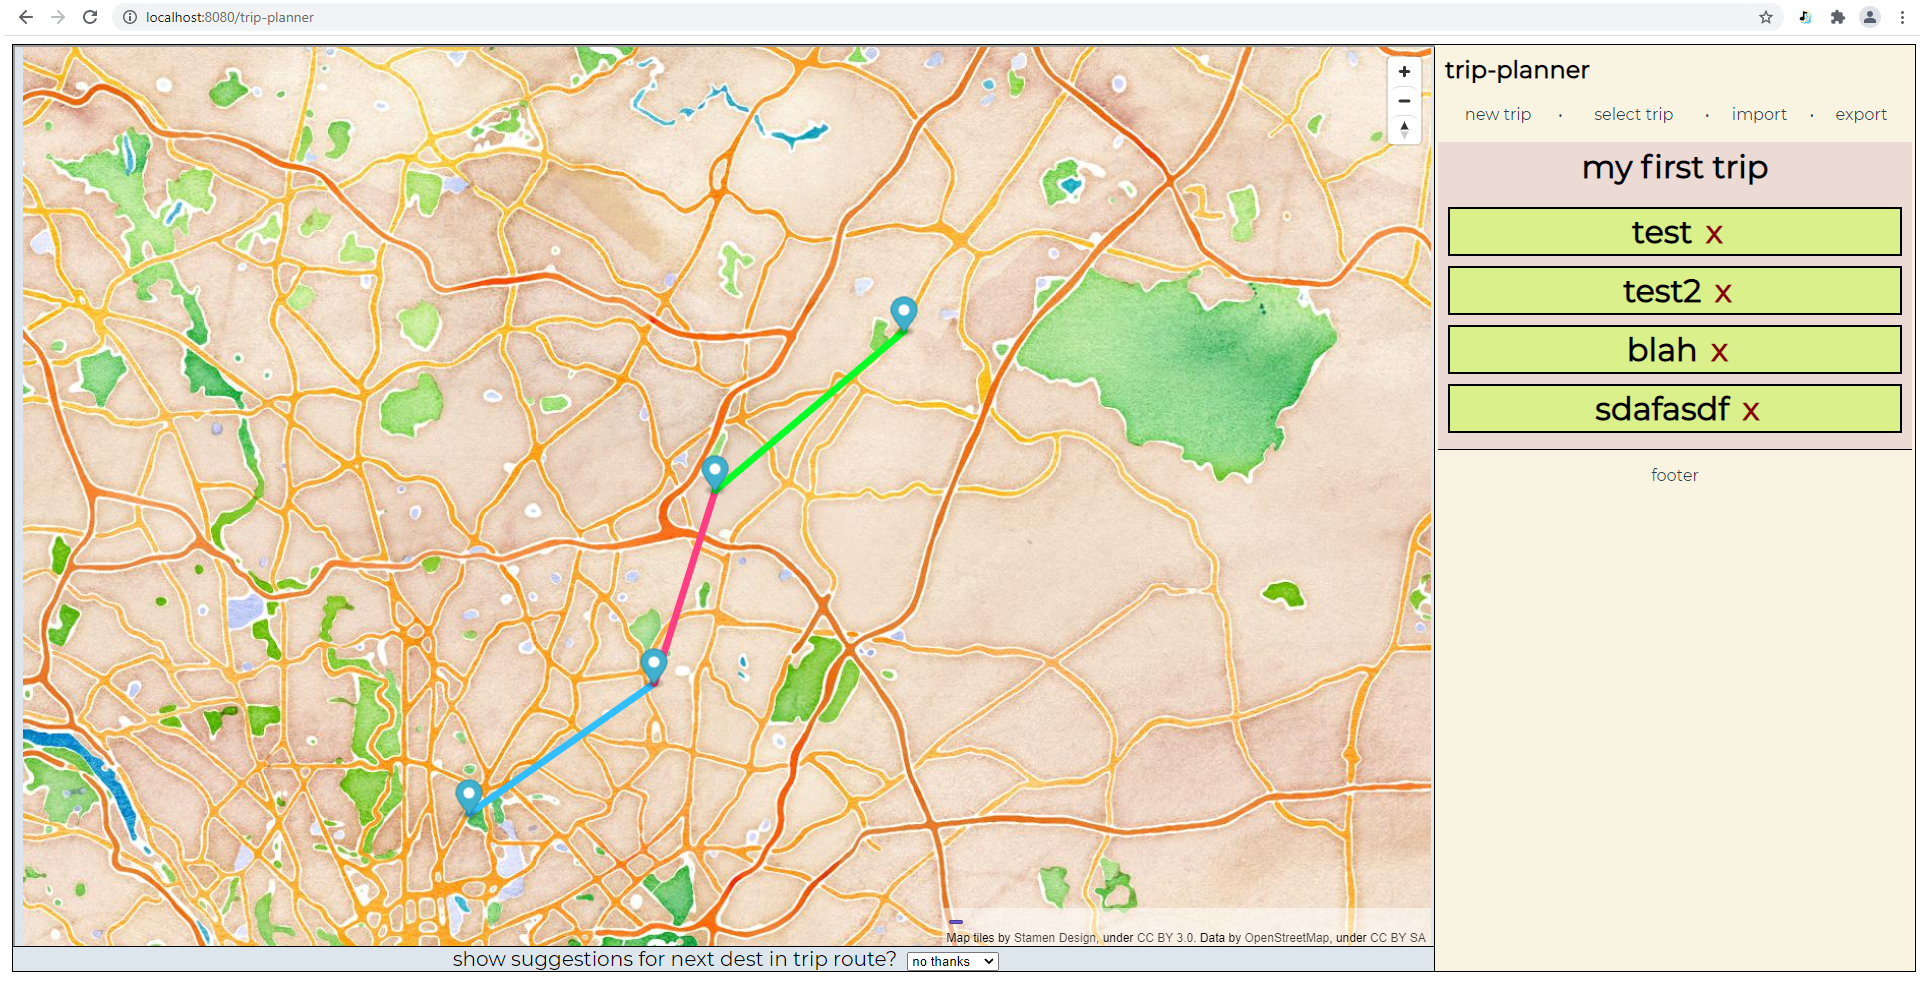
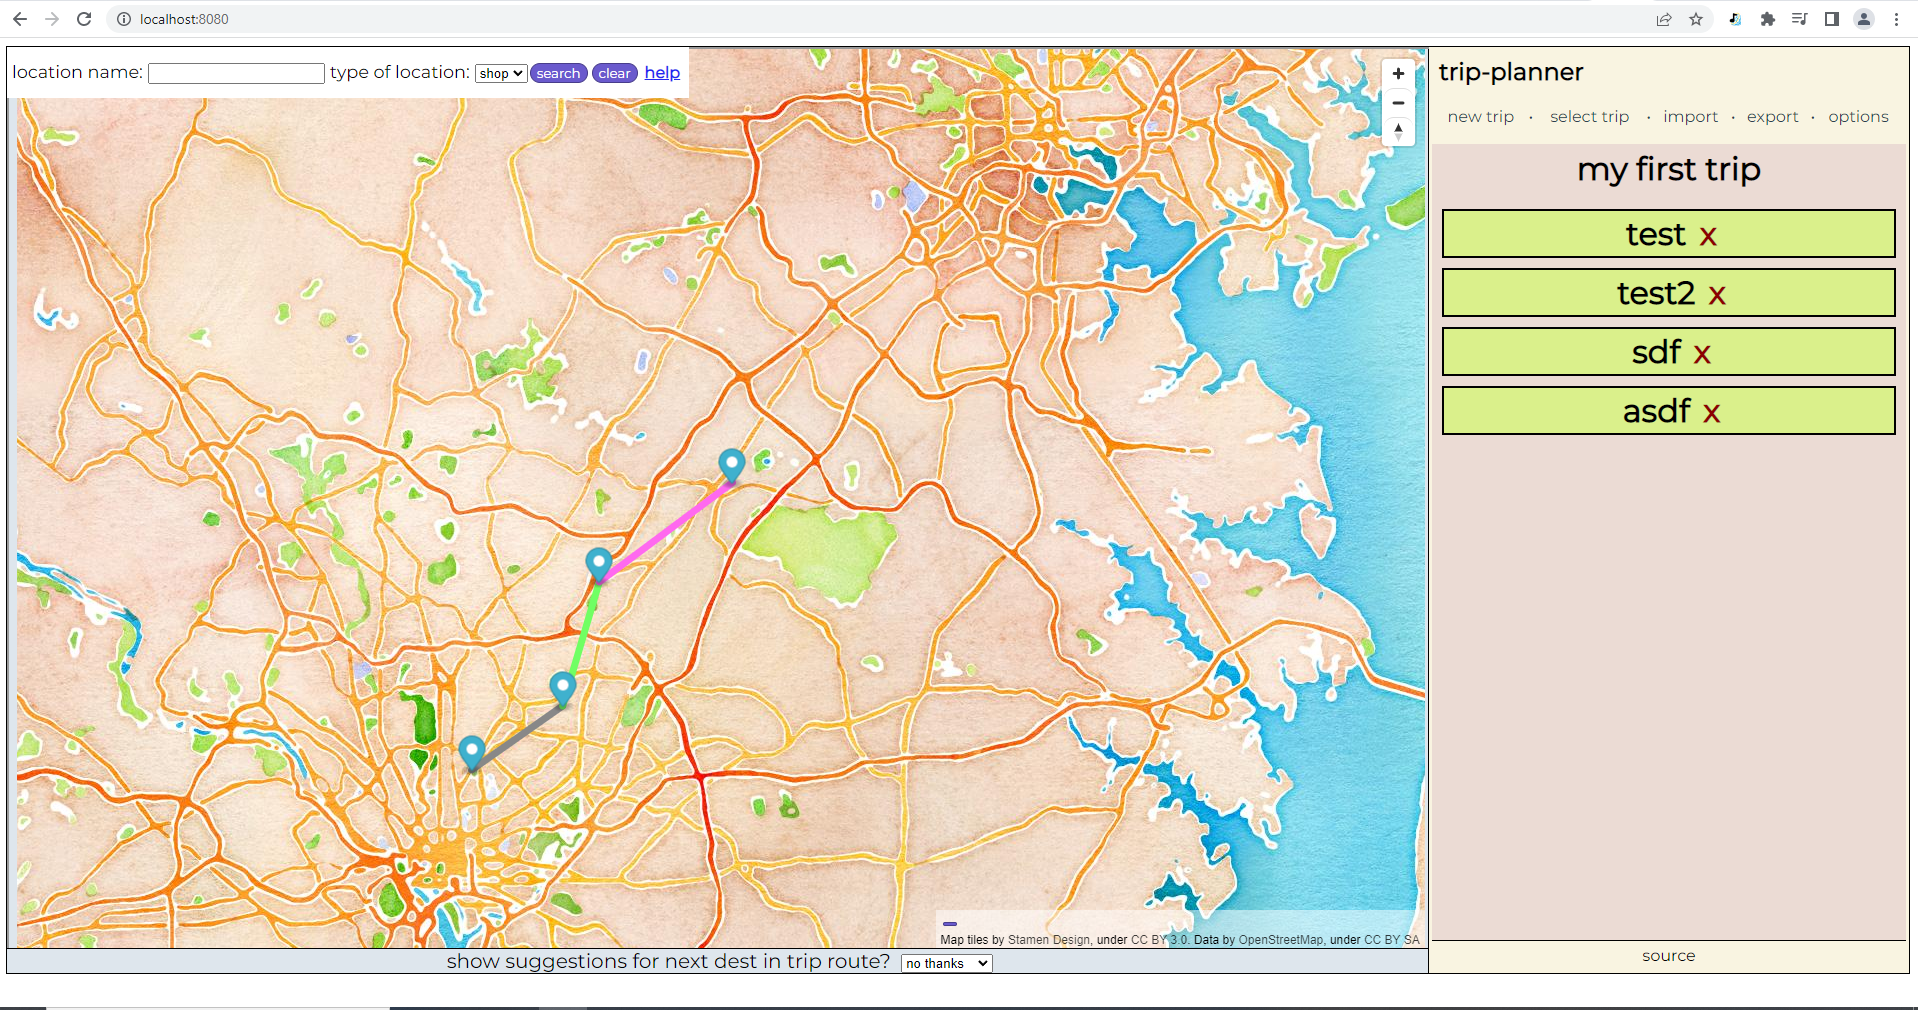
more progress! got a minimum example working and updated screenshots.

diff --git a/public/map.ts b/public/map.ts
@@ -16,6 +16,7 @@ class MapBoxWrapper {
     map:               Map;
     markers:           Array<Marker>;
     suggestedNextHops: Array<Marker>;
+    searchResults:     Array<Marker>;
     destNames:         Set<string>;
     
     constructor(key: string, mapContainer: HTMLElement){
@@ -23,6 +24,7 @@ class MapBoxWrapper {
         this.container = mapContainer;
         this.markers = [];
         this.suggestedNextHops = [];
+        this.searchResults = [];
         this.destNames = new Set();
         
         // default style that doesn't require a mapbox key
@@ -368,6 +370,63 @@ class MapBoxWrapper {
                 }
             });
         }
+    }
+    
+    showSearchResults(listOfLocations: Array<OverpassAPIDestinationSuggestion>): void {
+        for(let marker of this.searchResults){
+            marker.remove();
+        }
+        
+        this.searchResults = [];
+        
+        for(let dest of listOfLocations){
+            // make sure to denote these markers in a different way from the user's actual destination markers
+            const newMarker = new mapboxgl.Marker({color: "#2ad156"}); // green marker
+
+            const popupContent = document.createElement("div");
+
+            if(dest.destname) {
+                const destName = document.createElement("h3");
+                destName.textContent = dest.destname;
+                popupContent.appendChild(destName);
+            }
+
+            if('website' in dest && dest.website){
+                popupContent.appendChild(document.createElement("br"));
+                this.appendTextToMarker(popupContent, `website: ${dest.website}`);
+            }
+
+            if(dest.longitude && dest.latitude) {
+                newMarker.setLngLat([dest.longitude, dest.latitude]);
+                popupContent.appendChild(document.createElement("br"));
+                
+                this.appendTextToMarker(popupContent, `longitude: ${dest.longitude}`);
+                this.appendTextToMarker(popupContent, `latitude: ${dest.latitude}`);
+                
+                // make each suggested next destination selectable as a next destination by the user
+                const selectBtn = document.createElement("button");
+                selectBtn.textContent = "select as next destination?";
+                popupContent.appendChild(selectBtn);
+                
+                selectBtn.addEventListener("click", () => {
+                    this.addMarker(dest.latitude, dest.longitude);
+                });
+            }
+
+            const popup = new mapboxgl.Popup({ offset: 25 });
+            popup.setDOMContent(popupContent);
+            newMarker.setPopup(popup);
+            newMarker.addTo(this.map);
+            
+            this.searchResults.push(newMarker);
+        }
+    }
+    
+    clearSearchResults(): void {
+        for(let marker of this.searchResults){
+            marker.remove();
+        }
+        this.searchResults = [];
     }
     
     drawLineBetweenMarkers(){

diff --git a/src/main.ts b/src/main.ts
@@ -318,8 +318,10 @@ new Vue({
             
             function getResults(responseData: OverpassAPIData): OverpassAPIDestinationSuggestion[] {
                 const elements = responseData.elements;
-                return elements.map((el: OverpassAPINode) => {
+                console.log(elements);
+                return elements.filter(x => x.tags && x.lon && x.lat).map((el: OverpassAPINode) => {
                     // TODO: add address if available (e.g. addr:city, addr:street, addr:state, etc.)
+                    // TODO: maybe let tag info be optional? also, sometimes "way" elements are actual places - can we derive long and lat from its nodes maybe?
                     return {
                         'latitude': el.lat,
                         'longitude': el.lon,
@@ -338,6 +340,7 @@ new Vue({
             });
         },
 
+        // TODO: allow user to set radius?
         // keyType is like 'amenity' or 'tourism'
         // entity is like 'restaurant' or 'museum'
         getLocationsFromOverpass: function(lat: number, long: number, keyType: string, entity: string): Promise<OverpassAPIDestinationSuggestion[]> {
@@ -357,8 +360,9 @@ new Vue({
             return this._makeOverpassRequest(query);
         },
 
+        // TODO: allow user to set radius?
         searchLocationsFromOverpass: function(lat: number, long: number, keyType: string, property: string, valueToFind: string): Promise<OverpassAPIDestinationSuggestion[]> {
-            // find a shop with name as Costco (can also do "operator"= or "brand"=)
+            // find a shop with name as Costco (can also do "operator"= or "brand"=). nwr = node, way, relation
             // %5Bout%3Ajson%5D%5Btimeout%3A25%5D%3B%0A(%0A++nwr%5B%22shop%22%5D%5B%22name%22%3D%22Costco%22%5D(around%3A20000%2C38.982833520960156%2C-76.95210937499908)%3B%0A)%3B%0Aout+body%3B%0A%3E%3B%0Aout+skel+qt%3B
             /*
                 [out:json][timeout:25];
@@ -387,6 +391,17 @@ new Vue({
             );
         },
         
+        getSearchResultsFromOverpass: function(keyType: string, property: string, valueToFind: string): Promise<Array<OverpassAPIDestinationSuggestion>> {
+            const currTripDestList: Array<Destination> = this.tripData[this.currTripIndex].listOfDest;
+            return this.searchLocationsFromOverpass(
+                currTripDestList[currTripDestList.length-1].latitude,
+                currTripDestList[currTripDestList.length-1].longitude,
+                keyType,
+                property,
+                valueToFind
+            );
+        },
+
         setOverpassApiUse: function(val: boolean, entity: string): void {
             this.useOverpassAPI = val;
             if(val){

diff --git a/public/iframeSetup.ts b/public/iframeSetup.ts
@@ -13,6 +13,8 @@ const mapbox = new MapBoxWrapper("", mapContainer); // add token as first argume
 window.document.addEventListener('updateMap', updateMap, false);
 window.document.addEventListener('updateSuggestedNextHops', showSuggestedNextHops, false);
 window.document.addEventListener('changeMapStyle', changeMapStyle, false);
+window.document.addEventListener('showSearchResults', showSearchResults, false);
+window.document.addEventListener('clearSearchResults', clearSearchResults, false);
 
 function updateMap(evt : any){
     // send back logs to parent window to confirm iframe received data
@@ -25,19 +27,41 @@ function updateMap(evt : any){
     mapbox.drawLineBetweenMarkers();
 }
 
+function createAckEvent(message: string){
+    return new CustomEvent('iframeLogs', {detail: message});
+}
+
 function showSuggestedNextHops(evt: any){
-    const ackEvent = new CustomEvent('iframeLogs', {detail: "hi parent, got the data for suggested next hops!"});
-    window.parent.document.dispatchEvent(ackEvent);
+    window.parent.document.dispatchEvent(createAckEvent(
+        "hi parent, got the data for suggested next hops!"
+    ));
 
     // show suggested next hop markers on map
     mapbox.showSuggestedNextHops(evt.detail);
 }
 
 function changeMapStyle(evt: any){
-    const ackEvent = new CustomEvent('iframeLogs', {detail: "hi parent, updating the map style like you asked!"});
-    window.parent.document.dispatchEvent(ackEvent);
+    window.parent.document.dispatchEvent(createAckEvent(
+        "hi parent, updating the map style like you asked!"
+    ));
     
     mapbox.changeMapStyle(evt.detail);
+}
+
+function showSearchResults(evt: any){
+    window.parent.document.dispatchEvent(createAckEvent(
+        "hi parent, got the data for search results!"
+    ));
+    
+    mapbox.showSearchResults(evt.detail);
+}
+
+function clearSearchResults(evt: any){
+    window.parent.document.dispatchEvent(createAckEvent(
+        "hi parent, clearing search results!"
+    ));
+    
+    mapbox.clearSearchResults();
 }
 
 

diff --git a/src/components/TripRoute.vue b/src/components/TripRoute.vue
@@ -13,7 +13,9 @@
                         <option> shop </option>
                     </select>
                     
-                    <button id="searchLocationButton" @click="searchLocationWithOverpass"> search </button>
+                    <button class="searchLocationButton" @click="searchLocationWithOverpass"> search </button>
+                    
+                    <button class="searchLocationButton" @click="clearSearchResults"> clear </button>
                     
                     <p id="searchHelp"> help </p>
                 </div>
@@ -198,6 +200,7 @@ export default class TripRouteMap extends TripRouteMapProps {
     }
     
     // TODO: use this function to search for location
+    // TODO: allow user to input a long and lat to search around?
     searchLocationWithOverpass(): void {
         const locationInput = (document.getElementById('nameOfLocation') as HTMLInputElement).value;
 
@@ -205,11 +208,17 @@ export default class TripRouteMap extends TripRouteMapProps {
 
         if(locationInput && locationTypeSelect){
             const locationType = locationTypeSelect.options[locationTypeSelect.selectedIndex].value;
-            console.log(`locationInput: ${locationInput}`);
-            console.log(`locationType: ${locationType}`);
 
-            // search for locations
+            // search for locations - this will update the map showing any results found
+            //@ts-ignore
+            this.$root.getSearchResultsFromOverpass(locationType, "name", locationInput).then(data => {
+                this.dispatchEventToMap('showSearchResults', data);
+            });
         }
+    }
+    
+    clearSearchResults(): void {
+        this.dispatchEventToMap('clearSearchResults', []);
     }
 
     _handleIframeLogs(evt: Event): void {
